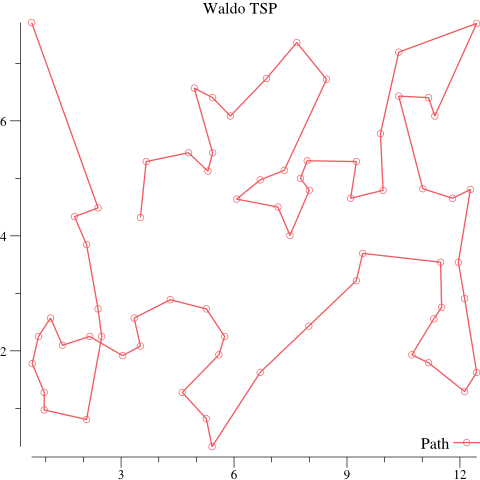
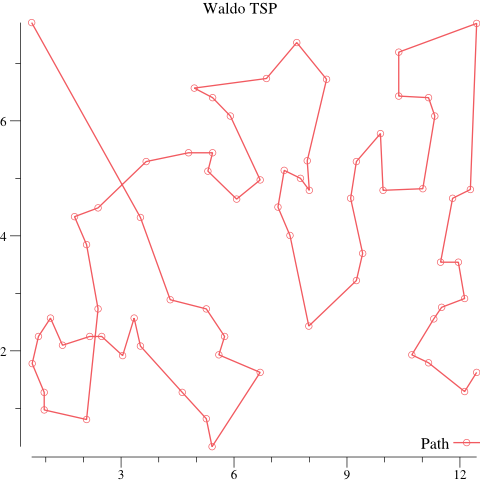
Put the presets into a separate folder

diff --git a/tsp/grid/grid.go b/tsp/grid/grid.go
@@ -5,7 +5,7 @@ import (
 	"math"
 	"strconv"
 
-	"github.com/MaxHalford/gago"
+	"github.com/MaxHalford/gago/presets"
 
 	"github.com/gonum/plot"
 	"github.com/gonum/plot/plotter"
@@ -22,7 +22,7 @@ func euclidian(a, b point) float64 {
 }
 
 var (
-	size   = 5
+	size   = 6
 	points = make(map[string]point)
 )
 
@@ -68,13 +68,13 @@ func main() {
 		names = append(names, name)
 	}
 	// Create the GA
-	var ga = gago.GATSP(names, distance)
+	var ga = presets.TSP(names, distance)
 	ga.Initialize()
 	// Enhance
 	for i := 0; i < 1000; i++ {
-		fmt.Println(ga.Best.Fitness)
 		ga.Enhance()
 	}
+	fmt.Println(ga.Best.Fitness)
 	// Extract the genome of the best individual
 	var points = ga.Best.Genome.CastString()
 	graph(points)

diff --git a/tsp/waldo/waldo.go b/tsp/waldo/waldo.go
@@ -8,7 +8,7 @@ import (
 	"os"
 	"strconv"
 
-	"github.com/MaxHalford/gago"
+	"github.com/MaxHalford/gago/presets"
 	"github.com/gonum/plot"
 	"github.com/gonum/plot/plotter"
 	"github.com/gonum/plot/plotutil"
@@ -77,10 +77,10 @@ func main() {
 		names = append(names, name)
 	}
 	// Create the GA
-	var ga = gago.GATSP(names, distance)
+	var ga = presets.TSP(names, distance)
 	ga.Initialize()
 	// Enhance
-	for i := 0; i < 10000; i++ {
+	for i := 0; i < 80000; i++ {
 		ga.Enhance()
 	}
 	fmt.Println(ga.Best.Fitness)

diff --git a/math-functions/styblinski-tang/styblinski-tang.go b/math-functions/styblinski-tang/styblinski-tang.go
@@ -4,7 +4,7 @@ import (
 	"fmt"
 	m "math"
 
-	"github.com/MaxHalford/gago"
+	"github.com/MaxHalford/gago/presets"
 )
 
 // StyblinskiTang minimum is -39.16599d reached in (-2.903534, ..., -2.903534)
@@ -19,7 +19,7 @@ func styblinskiTang(X []float64) float64 {
 
 func main() {
 	// Instantiate a GA with 2 variables and the fitness function
-	var ga = gago.GAFloat(2, styblinskiTang)
+	var ga = presets.Float(2, styblinskiTang)
 	ga.Initialize()
 	// Enhancement
 	for i := 0; i < 50; i++ {

diff --git a/plot-fitness/plot.go b/plot-fitness/plot.go
@@ -3,7 +3,7 @@ package main
 import (
 	m "math"
 
-	"github.com/MaxHalford/gago"
+	"github.com/MaxHalford/gago/presets"
 
 	"github.com/gonum/plot"
 	"github.com/gonum/plot/plotter"
@@ -47,7 +47,7 @@ func graph(best plotter.XYs) {
 
 func main() {
 	// Instantiate a GA with 2 variables and the fitness function
-	var ga = gago.GAFloat(2, styblinskiTang)
+	var ga = presets.Float(2, styblinskiTang)
 	ga.Initialize()
 	// Number of generations
 	var generations = 10

diff --git a/curve-fitting/fit.go b/curve-fitting/fit.go
@@ -4,7 +4,7 @@ import (
 	"fmt"
 	m "math"
 
-	"github.com/MaxHalford/gago"
+	"github.com/MaxHalford/gago/presets"
 )
 
 // Target function the GA has to approach
@@ -36,7 +36,7 @@ func leastSquares(B []float64) float64 {
 
 func main() {
 	// Instantiate a GA with 3 variables and the fitness function
-	var ga = gago.GAFloat(3, leastSquares)
+	var ga = presets.Float(3, leastSquares)
 	ga.Initialize()
 	// Enhancement
 	for i := 0; i < 1000; i++ {

diff --git a/math-functions/rastrigin/rastrigin.go b/math-functions/rastrigin/rastrigin.go
@@ -4,7 +4,7 @@ import (
 	"fmt"
 	m "math"
 
-	"github.com/MaxHalford/gago"
+	"github.com/MaxHalford/gago/presets"
 )
 
 // Rastrigin minimum is 0 reached in (0, ..., 0)
@@ -19,7 +19,7 @@ func rastrigin(X []float64) float64 {
 
 func main() {
 	// Instantiate a GA with 2 variables and the fitness function
-	var ga = gago.GAFloat(2, rastrigin)
+	var ga = presets.Float(2, rastrigin)
 	ga.Initialize()
 	// Enhancement
 	for i := 0; i < 40; i++ {

diff --git a/math-functions/sphere/sphere.go b/math-functions/sphere/sphere.go
@@ -4,7 +4,7 @@ import (
 	"fmt"
 	m "math"
 
-	"github.com/MaxHalford/gago"
+	"github.com/MaxHalford/gago/presets"
 )
 
 // Sphere function minimum is 0 reached in (0, ..., 0).
@@ -19,7 +19,7 @@ func sphere(X []float64) float64 {
 
 func main() {
 	// Instantiate a GA with 2 variables and the fitness function
-	var ga = gago.GAFloat(2, sphere)
+	var ga = presets.Float(2, sphere)
 	ga.Initialize()
 	// Enhancement
 	for i := 0; i < 10; i++ {

diff --git a/math-functions/griewank/griewank.go b/math-functions/griewank/griewank.go
@@ -4,7 +4,7 @@ import (
 	"fmt"
 	m "math"
 
-	"github.com/MaxHalford/gago"
+	"github.com/MaxHalford/gago/presets"
 )
 
 // Griewank minimum is 0 reached in (0, ..., 0)
@@ -23,7 +23,7 @@ func griewank(X []float64) float64 {
 
 func main() {
 	// Instantiate a GA with 2 variables and the fitness function
-	var ga = gago.GAFloat(2, griewank)
+	var ga = presets.Float(2, griewank)
 	ga.Initialize()
 	// Enhancement
 	for i := 0; i < 50; i++ {

diff --git a/math-functions/shubert/shubert.go b/math-functions/shubert/shubert.go
@@ -4,7 +4,7 @@ import (
 	"fmt"
 	m "math"
 
-	"github.com/MaxHalford/gago"
+	"github.com/MaxHalford/gago/presets"
 )
 
 // Shubert minimum is -186.7309 reached 18 times
@@ -21,7 +21,7 @@ func shubert(X []float64) float64 {
 
 func main() {
 	// Instantiate a GA with 2 variables and the fitness function
-	var ga = gago.GAFloat(2, shubert)
+	var ga = presets.Float(2, shubert)
 	ga.Initialize()
 	// Enhancement
 	for i := 0; i < 30; i++ {

diff --git a/math-functions/drop-wave/drop-wave.go b/math-functions/drop-wave/drop-wave.go
@@ -4,7 +4,7 @@ import (
 	"fmt"
 	m "math"
 
-	"github.com/MaxHalford/gago"
+	"github.com/MaxHalford/gago/presets"
 )
 
 // DropWave minimum is -1 reached in (0, 0)
@@ -17,7 +17,7 @@ func dropWave(X []float64) float64 {
 
 func main() {
 	// Instantiate a GA with 2 variables and the fitness function
-	var ga = gago.GAFloat(2, dropWave)
+	var ga = presets.Float(2, dropWave)
 	ga.Initialize()
 	// Enhancement
 	for i := 0; i < 30; i++ {

diff --git a/tsp/capitals/capitals.go b/tsp/capitals/capitals.go
@@ -8,7 +8,7 @@ import (
 	"os"
 	"strconv"
 
-	"github.com/MaxHalford/gago"
+	"github.com/MaxHalford/gago/presets"
 	"github.com/gonum/plot"
 	"github.com/gonum/plot/plotter"
 	"github.com/gonum/plot/plotutil"
@@ -77,7 +77,7 @@ func main() {
 		names = append(names, name)
 	}
 	// Create the GA
-	var ga = gago.GATSP(names, distance)
+	var ga = presets.TSP(names, distance)
 	ga.Initialize()
 	// Enhance
 	for i := 0; i < 10000; i++ {

diff --git a/string-matching/match.go b/string-matching/match.go
@@ -4,7 +4,7 @@ import (
 	"fmt"
 	"strings"
 
-	"github.com/MaxHalford/gago"
+	"github.com/MaxHalford/gago/presets"
 )
 
 const (
@@ -31,7 +31,7 @@ func hamming(str []string) float64 {
 
 func main() {
 	// Create the GA
-	var ga = gago.GAAlignment(len(target), corpus, hamming)
+	var ga = presets.Alignment(len(target), corpus, hamming)
 	ga.Initialize()
 	// Enhance
 	for i := 0; i < 3000; i++ {
